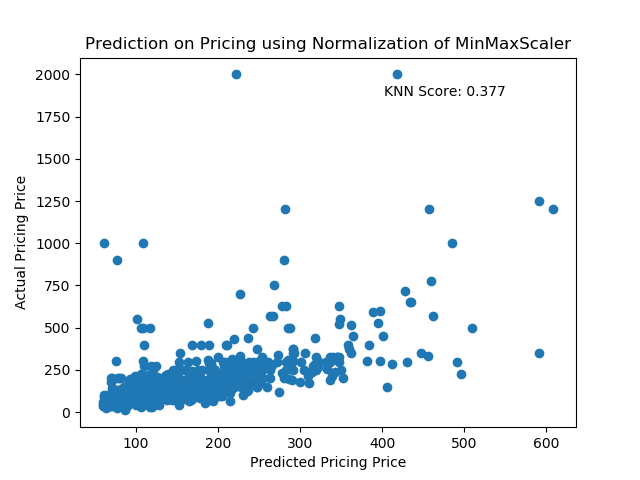
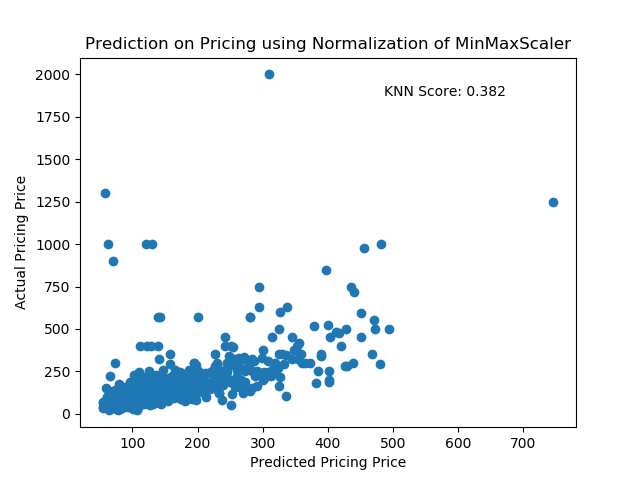
code updated a little bit

diff --git a/train_byLeTao.py b/train_byLeTao.py
@@ -109,13 +109,13 @@ for testIteration in range(10):
         # print(knnP.score(XPS_test, yP_test))
         pricingScores[scalerIndex] += knnP.score(XPS_test, yP_test)
 
-        # plt.scatter(knnP.predict(XPS_test), np.array(yP_test))
-        # plt.title('Prediction on Pricing using Normalization of {}'.format(scaler))
-        # plt.xlabel('Predicted Pricing Price')
-        # plt.ylabel('Actual Pricing Price')
-        # plt.figtext(0.6, 0.8, 'KNN Score: {}'.format(round(knnP.score(XPS_test, yP_test), 3)))
-        # plt.savefig('scaler graphs/{} Prediction'.format(scaler))
-        # plt.clf()
+        plt.scatter(knnP.predict(XPS_test), np.array(yP_test))
+        plt.title('Prediction on Pricing using Normalization of {}'.format(scaler))
+        plt.xlabel('Predicted Pricing Price')
+        plt.ylabel('Actual Pricing Price')
+        plt.figtext(0.6, 0.8, 'KNN Score: {}'.format(round(knnP.score(XPS_test, yP_test), 3)))
+        plt.savefig('scaler graphs/{} Prediction'.format(scaler))
+        plt.clf()
 
         knnT = KNeighborsRegressor(n_neighbors = 20)
         knnT.fit(XTS_train, yT_train)
@@ -125,13 +125,13 @@ for testIteration in range(10):
         # print(knnT.score(XTS_test, yT_test))
         transactionScores[scalerIndex] += knnT.score(XTS_test, yT_test)
 
-        # plt.scatter(knnP.predict(XTS_test), np.array(yT_test))
-        # plt.title('Prediction on Transaction using Normalization of {}'.format(scaler))
-        # plt.xlabel('Predicted Transaction Price')
-        # plt.ylabel('Actual Transaction Price')
-        # plt.figtext(0.6, 0.8, 'KNN Score: {}'.format(round(knnT.score(XTS_test, yT_test), 3)))
-        # plt.savefig('scaler graphs/{} Transaction'.format(scaler))
-        # plt.clf()
+        plt.scatter(knnP.predict(XTS_test), np.array(yT_test))
+        plt.title('Prediction on Transaction using Normalization of {}'.format(scaler))
+        plt.xlabel('Predicted Transaction Price')
+        plt.ylabel('Actual Transaction Price')
+        plt.figtext(0.6, 0.8, 'KNN Score: {}'.format(round(knnT.score(XTS_test, yT_test), 3)))
+        plt.savefig('scaler graphs/{} Transaction'.format(scaler))
+        plt.clf()
 
     print(transactionScores)
 
@@ -155,4 +155,5 @@ plt.xlabel('Type of Scalers')
 plt.ylabel('Average KNN Scores')
 plt.savefig('scaler graphs/all transaction scalers')
 plt.clf()
-# Why such much random error in knn.score?
+
+print('\n', transactionScores)
